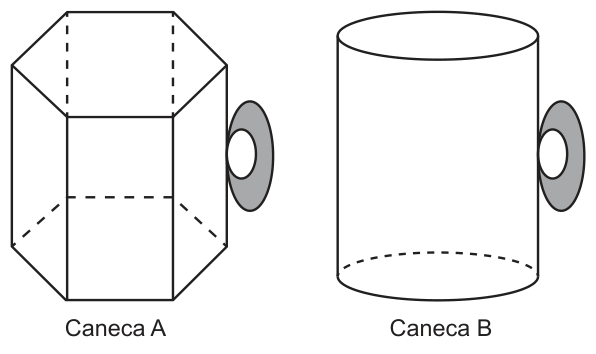
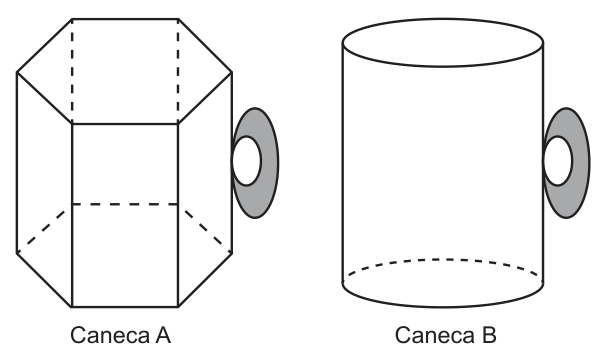
Converte o piloto de Geometria para o padrão v2
- Símbolos explicados no texto na primeira aparição (sem tabela).
- Glossário só com siglas e palavras difíceis das questões.
- Recortes q2, q3 e q5 aparados e centrados; q5 sem ampliação borrada.
- Progresso: decisões do padrão v2 e da Redação.

diff --git a/docs/aulas/progresso.md b/docs/aulas/progresso.md
@@ -15,6 +15,9 @@ Status: `pendente`, `em andamento`, `concluída`, `bloqueada`. Questões: ids do
 - 25/09/2026 · "Difícil" = parâmetro b no terço superior da mesma área e ano; questão sem b não conta como difícil.
 - 25/09/2026 · Nome da aplicação na linha de fonte: conferir a capa do caderno (ex.: o caderno 9 branco de 2016 listado como PPL é a "3ª aplicação").
 - 25/09/2026 · Direito autoral: reproduzir só texto do INEP, obra em domínio público (autor morto há mais de 70 anos, Lei 9.610/98, art. 41) e trecho curto de prosa com crédito; o resto remete à página do PDF oficial ou a questão é trocada.
+- 26/09/2026 · Padrão v2, depois do piloto (pedido do Max): resumo e relevância juntos no "Raio-X do tema" (retrátil); cor fixa por matéria, com o negrito na cor da matéria; temas cobrados em lista; glossário dentro de `<Accordion>`, só siglas e termos não óbvios; sem tabela de símbolos; "Aula Teórica" e "Questões do ENEM"; sem legenda "Figura N"; sem "Como o ENEM cobra isso"; siglas por extenso também na Aula Teórica; recortes aparados e centrados. Os 3 pilotos foram convertidos e revisados de novo.
+- 26/09/2026 · Redação: "## Questões e escrita" com 5 questões autorais sobre a competência da aula + `**Agora escreva.**` + `<Textarea />` (folha pautada; a correção fica para depois, só visual por enquanto).
+- 26/09/2026 · Push só no fim de cada matéria (confirmado pelo Max depois do piloto).
 
 ## Fase 3: aulas existentes (ordem de trabalho)
 
